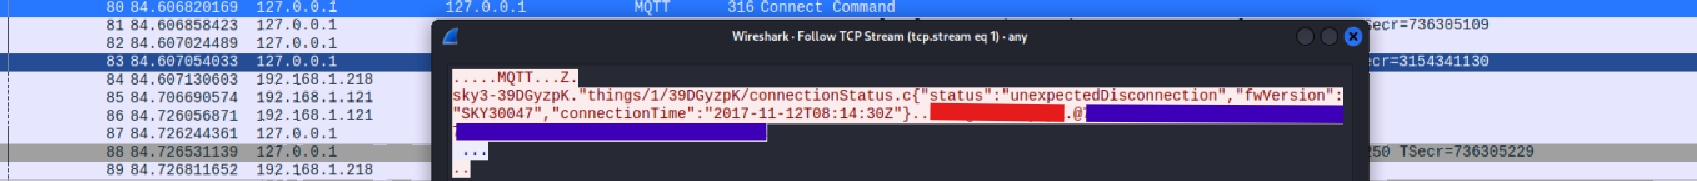
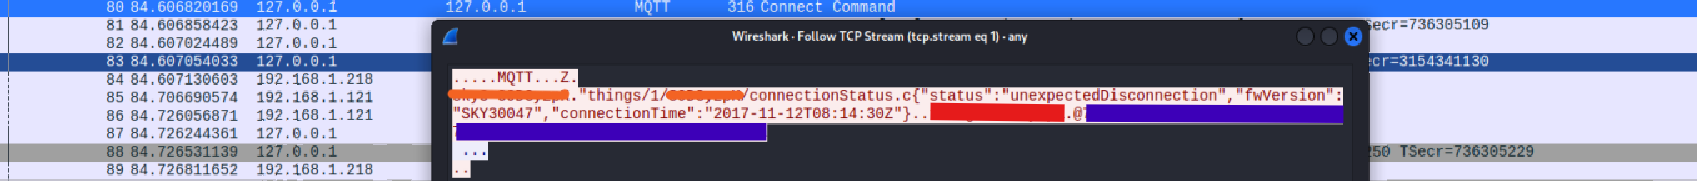
finalize the README's and go public

Changed region(s): [[0.2499, 0.4696, 0.3435, 0.5525], [0.3748, 0.4972, 0.4372, 0.5525]]

diff --git a/README.he.md b/README.he.md
@@ -5,7 +5,7 @@
 | **תאריך**        | אוקטובר 2026                                                                                 |
 | **יעד**          | בקר מיזוג חכם של Sensibo (IoT)                                                               |
 | **קטגוריה**      | Improper Certificate Validation - [CWE-295](https://cwe.mitre.org/data/definitions/295.html) |
-| **חומרה**        | נמוכה–בינונית (רשת סמוכה / Adjacent; פגיעת סודיות)                                                     |
+| **חומרה**        | נמוכה–בינונית (רשת סמוכה / Adjacent; פגיעת סודיות)                                           |
 | **סטטוס**        | דווח אחראית ל-Sensibo בתאריך 09.10.2026                                                      |
 | **היקף**         | מכשיר, חשבון ורשת בבעלות החוקר בלבד                                                          |
 
@@ -16,9 +16,9 @@
  מכיוון שהבדיקה מתבצעת מאוחר מדי, לקוח ה-MQTT (המכשיר) שולח את פרטי ההתחברות של המכשיר (שם משתמש + אסימון) אל השרת (שטרם אומת בתור השרת האמיתי של Sensibo).
  ובפועל - המזהים יכולים להגיע אל תוקף on-path **לפני** שהרכיב מזהה בעזרת pinning את השרת המזויף ומנתק את התקשורת.
 
-כתוצאה מכך, מימוש MITM יציב דרך proxy אינו ישים (ה-pinning סוגר כל חיבור שאינו מציג את התעודה האמיתית), **והחשיפה מצטמצמת לדליפת credentials בחלון הקצר שלפני הניתוק**. הזרקת פקודות אינה אפשרית - גם משום שה-broker אוכף ACL מסוג subscribe-only על נתיבי הפקודות, וגם משום שה-pinning המאוחר מונע קיום MITM יציב דרך proxy.
+כתוצאה מכך, מימוש MITM דרך proxy אינו ישים (ה-pinning סוגר כל חיבור שאינו מציג את התעודה האמיתית), **והחשיפה מצטמצמת לדליפת credentials בחלון הקצר שלפני הניתוק**. הזרקת פקודות אינה אפשרית - גם משום שה-broker אוכף ACL מסוג subscribe-only על נתיבי הפקודות, וגם משום שה-pinning המאוחר מונע קיום MITM יציב דרך proxy.
 
-עם זאת, הדלפת הcreds מאפשרת האזנה פסיבית על הפעולות הלגיטימיות שהרכיב  מבצע מול הברוקר MQTT (פקודות IR / state), מה שחושף דפוסי שימוש ו**נוכחות בבית** (מתי המזגן דולק/כבוי).
+הדלפת הcreds מאפשרת האזנה פסיבית על הפעולות הלגיטימיות שהרכיב מבצע מול הברוקר MQTT (פקודות IR / state), מה שחושף דפוסי שימוש ו**נוכחות בבית** (מתי המזגן דולק/כבוי).
 
 ---
 ## 1. היקף והרשאה
@@ -44,7 +44,6 @@ nmap -T4 -A -p- <device-ip>    # full port / service scan
 | IP המכשיר     | `192.168.1.121` (פרטי)             |
 | MAC           | `<צונזר>`                          |
 | פורטים פתוחים | **אין** (אין שירותים נגישים מבחוץ) |
-| טביעת אצבע    | מחסנית `lwIP` מוטמעת               |
 
 **תצפית:** נראה כי מזהי שאילתות ה-DNS **אינם אקראיים**, מה שהופך DNS spoofing לטריוויאלי - תנאי קדם שימושי לתקיפה שלהלן.
 
@@ -128,14 +127,15 @@ Validity: 2018 → 3017
 כדי לוודא שה-credentials שדלפו באמת שמישים, התחברתי איתם ל-broker ה**אמיתי** של Sensibo, כלקוח רגיל:
 
 1. **האימות הצליח.** ה-broker קיבל את ה-credentials (`CONNECT rc = 0`), מה שמאשר שהם תקפים מול ה-broker  - לא רק בתוך המעבדה שלי.
-2. **האזנה עובדת.** הרשמה (subscribe) ל-topic של המכשיר (`things/1/<device-id>/#`) החזירה את **הזרם החי של תעבורת המכשיר** - גלי פקודות ה-IR ועדכוני ה-state. הפעלת המזגן מהאפליקציה יצרה סדרה רציפה של הודעות שהתקבלו בזמן אמת, כלומר יכולתי לראות בדיוק **מתי המזגן נדלק/כבה.**
-3. **הזרקת פקודות חסומה.** ניסיון לפרסם (publish) לנתיבי הפקודות (`.../cmd`, `.../ir/...`) לא השפיע. בדיקת שני חיבורים (מנוי + מפרסם, שניהם עם זהות המכשיר) הראתה שהודעות שפורסמו בזהות המכשיר **לא נותבו כלל**, בעוד תעבורת הענן האמיתית התקבלה כרגיל. לכן זהות המכשיר היא **subscribe-only** על נתיבי הפקודות (ACL בצד ה-broker).
+2. **האזנה עובדת.** הרשמה (subscribe) ל-topic של המכשיר (`things/1/<device-id>/#`) החזירה את **תעבורת המכשיר הלגיטימית מול הברוקר** בזמן אמת - גלי פקודות ה-IR ועדכוני ה-state.
+3. הפעלת המזגן מהאפליקציה יצרה סדרה רציפה של הודעות שהתקבלו בזמן אמת, כלומר יכולתי לראות בדיוק **מתי המזגן נדלק/כבה.**
+4. **הזרקת פקודות חסומה.** ניסיון לפרסם (publish) לנתיבי הפקודות (`.../cmd`, `.../ir/...`) לא השפיע. בדיקת שני חיבורים (מנוי + מפרסם, שניהם עם זהות המכשיר) הראתה שהודעות שפורסמו בזהות המכשיר **לא נותבו כלל**, בעוד תעבורת הענן האמיתית התקבלה כרגיל. לכן זהות המכשיר היא **subscribe-only** על נתיבי הפקודות (ACL בצד ה-broker).
 
 **מסקנה:** ה-credentials שדלפו **אינם חסרי ערך**. הם מקנים יכולת **האזנה** אמיתית על מכשיר הקורבן - פגיעת סודיות שחושפת דפוסי שימוש ונוכחות - אך **לא שליטה**, שכן ה-ACL חוסם פרסום פקודות.
 
 ---
 
-## 8. מדוע stable MITM אינו ישים
+## 8. מדוע פרוקסי אינו ישים
 
 ניסיון להקים חיבור יציב בין המכשיר לשרת האמיתי של Sensibo נשלל. המכשיר משלים את ה-TLS handshake מול כל תעודה, אך ה-**pinning בשכבת האפליקציה** בודק אז את התעודה ו**סוגר את החיבור** אם אינה התעודה האמיתית של Sensibo. ללא המפתח הפרטי של Sensibo, לא ניתן להחזיק חיבור יציב.
 
@@ -168,14 +168,11 @@ Validity: 2018 → 3017
 - מנגנון pinning **מאוחר** חוסם התחזות לשרת לצורך MITM יציב.
 
 ---
-
 ## 11. המלצות
 
 1. **לאכוף אימות שרשרת תעודה ו/או pinning בשכבת ה-TLS** - תיקון שורש הבעיה.
 2. **להתנות את שליחת ה-credentials בהצלחת אימות השרת** - לא לשלוח MQTT `CONNECT` לפני שזהות השרת אומתה.
-3. **לאקראי את מזהי שאילתות ה-DNS** כדי להקשות על DNS spoofing.
-4. לשקול **סבב/ביטול אסימון** זמין למשתמש לאחר חשד לדליפה.
-
+3. **לרנדם את מזהי שאילתות ה-DNS** כדי להקשות על DNS spoofing.
 ---
 
 ## 12. דיווח אחראי

diff --git a/README.md b/README.md
@@ -43,7 +43,6 @@ nmap -T4 -A -p- <device-ip>    # full port / service scan
 | Device IP   | `192.168.1.121` (private)                   |
 | MAC         | `<redacted>`                                |
 | Open ports  | **None** (no externally reachable services) |
-| Fingerprint | embedded `lwIP` TCP/IP stack                |
 
 **Observation:** the device's **DNS query IDs do not appear to be randomized**, which makes DNS spoofing trivial - a useful precondition for the attack below.
 
@@ -127,7 +126,7 @@ To verify that the leaked credentials are actually usable, I connected to the **
 
 1. **Authentication succeeded.** The broker accepted the credentials (`CONNECT rc = 0`), confirming they are valid against the production broker - not just inside my lab.
 2. **Eavesdropping works.** Subscribing to the device's topic tree (`things/1/<device-id>/#`) returned the **live stream of the device's traffic** - the IR command waveforms.
-3. Operating the AC from the app produced a continuous series of messages received in real time, i.e. I could observe exactly **when the AC turned on/off and with what settings.**
+3. Operating the AC from the app produced a continuous series of messages received in real time, i.e. I could observe exactly **when the AC turned on/off.**
 4. **Command injection is blocked.** Attempting to publish to the command topics (`.../cmd`, `.../ir/...`) had no effect. A two-client test (one subscriber and one publisher, both using the device credentials) showed that messages published under the device identity were **never routed**, while genuine cloud traffic was received normally. The device identity is therefore **subscribe-only** on the command topics (broker-side ACL).
 
 **Conclusion:** the leaked credentials are **not inert**. They grant real **eavesdropping** capability over the victim device - a confidentiality breach exposing usage and occupancy patterns - but **not control**, since the ACL blocks publishing commands.
@@ -173,13 +172,12 @@ An attempt to run a stable proxy between the device and the real Sensibo server 
 1. **Enforce proper certificate-chain validation and/or pinning at the TLS layer** - fixes the root cause.
 2. **Gate credential transmission on successful server authentication** - never send the MQTT `CONNECT` before the server's identity is verified.
 3. **Randomize DNS query IDs** to harden against DNS spoofing.
-4. Consider **token rotation/revocation** available to the user after a suspected leak.
 
 ---
 
 ## 12. Responsible Disclosure
 
-This issue was reported to Sensibo on **2026-10-09** via their security contact. The repository is kept private pending a reasonable remediation window; public disclosure will follow a coordinated-disclosure timeline. All device credentials and identifiers are **redacted**, and no exploit code enabling trivial reuse is included.
+This issue was reported to Sensibo on **2026-10-09**. All device credentials and identifiers are **redacted** from this report, and no exploit code enabling trivial reuse is included.
 
 ---
 
@@ -187,7 +185,7 @@ This issue was reported to Sensibo on **2026-10-09** via their security contact.
 
 | #        | Type       | Description                                                                                                                                                       |
 | -------- | ---------- | ----------------------------------------------------------------------------------------------------------------------------------------------------------------- |
-| E0       | screenshot | flow diagram that describe the device communication method                                                                                                        |
+| E0       | screenshot | flow diagram that describes the device communication method                                                                                                        |
 | E1       | screenshot | Server certificate details (private Sensibo CA, CN=*.sensibo.com)                                                                                                 |
 | E2       | screenshot | altered Server certificate details (private Sensibo CA, CN=*.sensi**g**o.com)                                                                                     |
 | E3       | screenshot | Cert-variation tests (random CN / O) - handshake still completes                                                                                                  |
